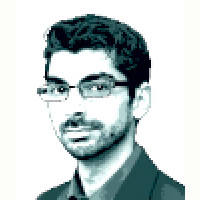
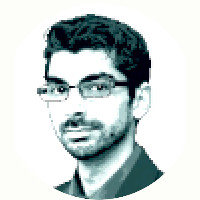
upd

Changed region(s): [[0.51, 0.87, 0.93, 1.0], [0.15, 0.93, 0.48, 1.0]]

diff --git a/docs/about.html b/docs/about.html
@@ -197,7 +197,7 @@
                 <div class="card-content">
 
                     <div style="float:right">
-                        <figure class="image is-72x72"><img class="is-rounded" src="css/images/avatarpro_web3.jpg?v=20260824_2250" /></figure>
+                        <figure class="image is-72x72"><img class="is-rounded" src="css/images/avatarpro_web3.jpg?v=20260824_2253" /></figure>
                     </div>
 
                     <p>

diff --git a/src/Components/Views/intro.php b/src/Components/Views/intro.php
@@ -8,7 +8,7 @@
                 <div class="card-content">
 
                     <div style="float:right">
-                        <figure class="image is-72x72"><img class="is-rounded" src="css/images/avatarpro_web3.jpg?v=20260824_2250" /></figure>
+                        <figure class="image is-72x72"><img class="is-rounded" src="css/images/avatarpro_web3.jpg?v=20260824_2253" /></figure>
                     </div>
 
                     <p>
